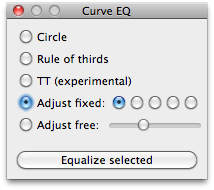
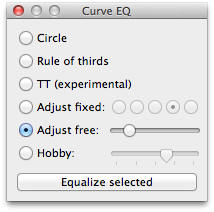
Updated help files

diff --git a/Extensions/Curve EQ.roboFontExt/html/index.html b/Extensions/Curve EQ.roboFontExt/html/index.html
@@ -26,7 +26,7 @@
 		<h1>Curve Equalizer</h1>
 		<p>Curve Equalizer helps you quickly balance the Bézier handles of a curve, or adjust the curvature to a fixed amount.</p>
 		<h2>Interface</h2>
-		<p><img src="dialog.png" width="214" height="190" alt=""></p>
+		<p><img src="dialog.png" width="214" height="212" alt=""></p>
 		<p>Select the curve adjustment method.</p>
 		<table>
 			<tr>
@@ -53,6 +53,10 @@
 				<td>Adjust free</td>
 				<td>Change the curvature interactively using the slider. This is particularly useful if you want to keep the current curvature, but balance the handles.</td>
 			</tr>
+			<tr>
+				<td>Hobby</td>
+				<td>Change the tension of the curves. This uses the spline algorithm by John D. Hobby, which is also used by Metafont to create harmonic curves.</td>
+			</tr>
 		</table>
 		<p>Click the «Equalize selected» button to apply the adjustment to the selected curves in the current glyph window.</p>
 		<h2>Known Issues</h2>
@@ -64,5 +68,6 @@
 		<p><img src="geometry.jpg" width="370" height="305" alt=""></p>
 		<hr>
 		<p>Curve Equalizer is © 2013 by Jens Kutilek.</p>
+		<p>The Hobby Spline code was sent in by Simon Egli with contributions by Juraj Sukop and Lasse Fister.</p>
 	</body>
 </html>
